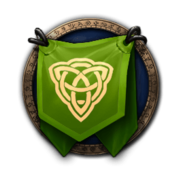
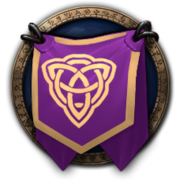
Add some /about descriptions and change theme to purple

diff --git a/src/Client/Shared/Theming/DefaultMudTheme.cs b/src/Client/Shared/Theming/DefaultMudTheme.cs
@@ -11,10 +11,10 @@ namespace ValhallaLootList.Client.Shared
         {
             Palette =
             {
-                Primary = Colors.Green.Darken2,
+                Primary = Colors.Purple.Darken1,
                 Secondary = Colors.Blue.Accent1,
                 Tertiary = Colors.Orange.Darken3,
-                AppbarBackground = Colors.Green.Darken2
+                AppbarBackground = Colors.Purple.Darken1
             }
         };
     }
